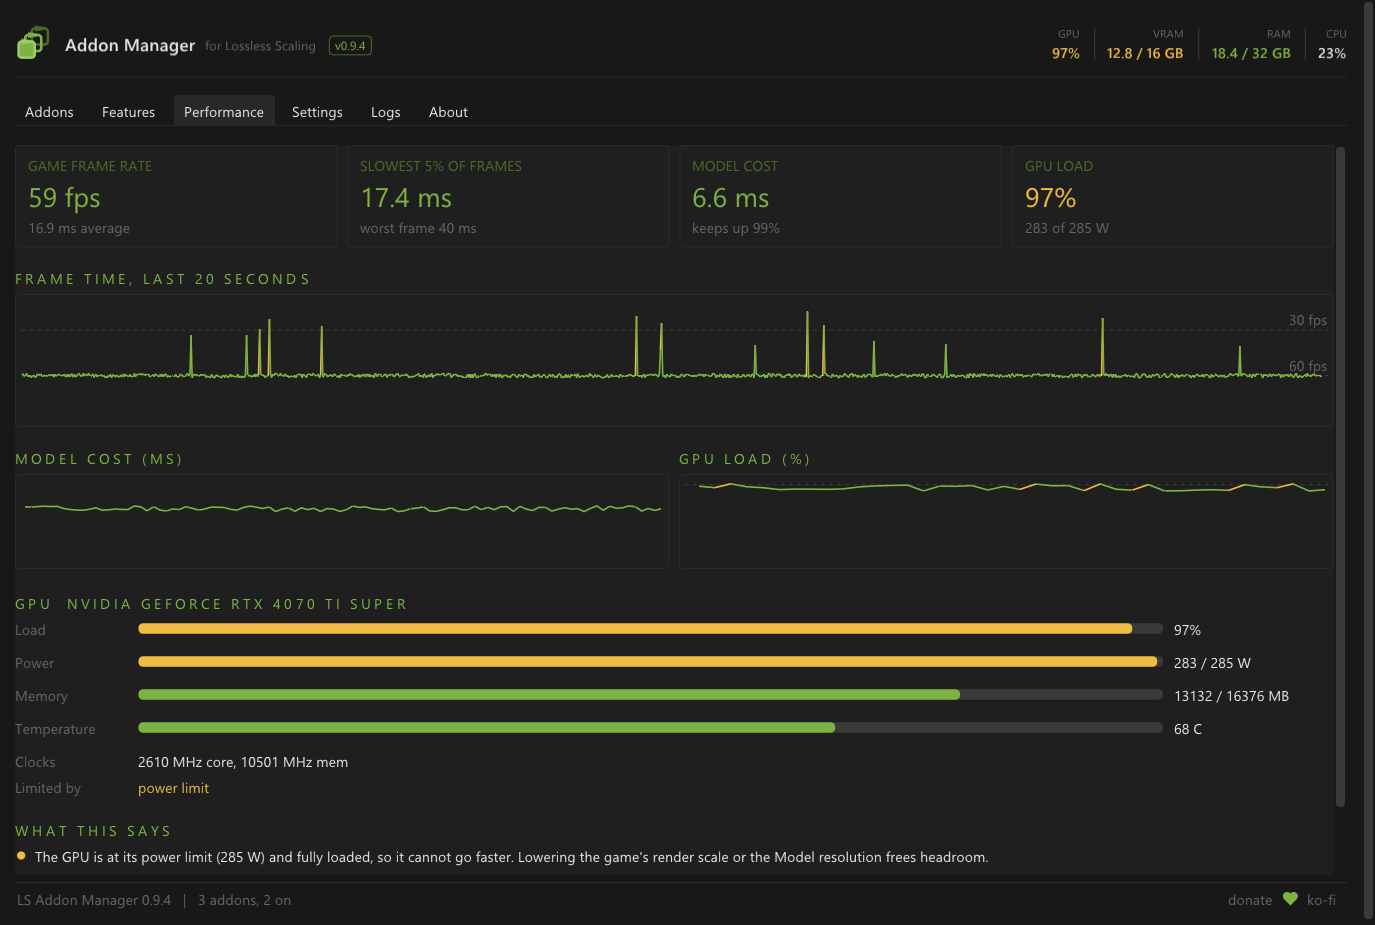
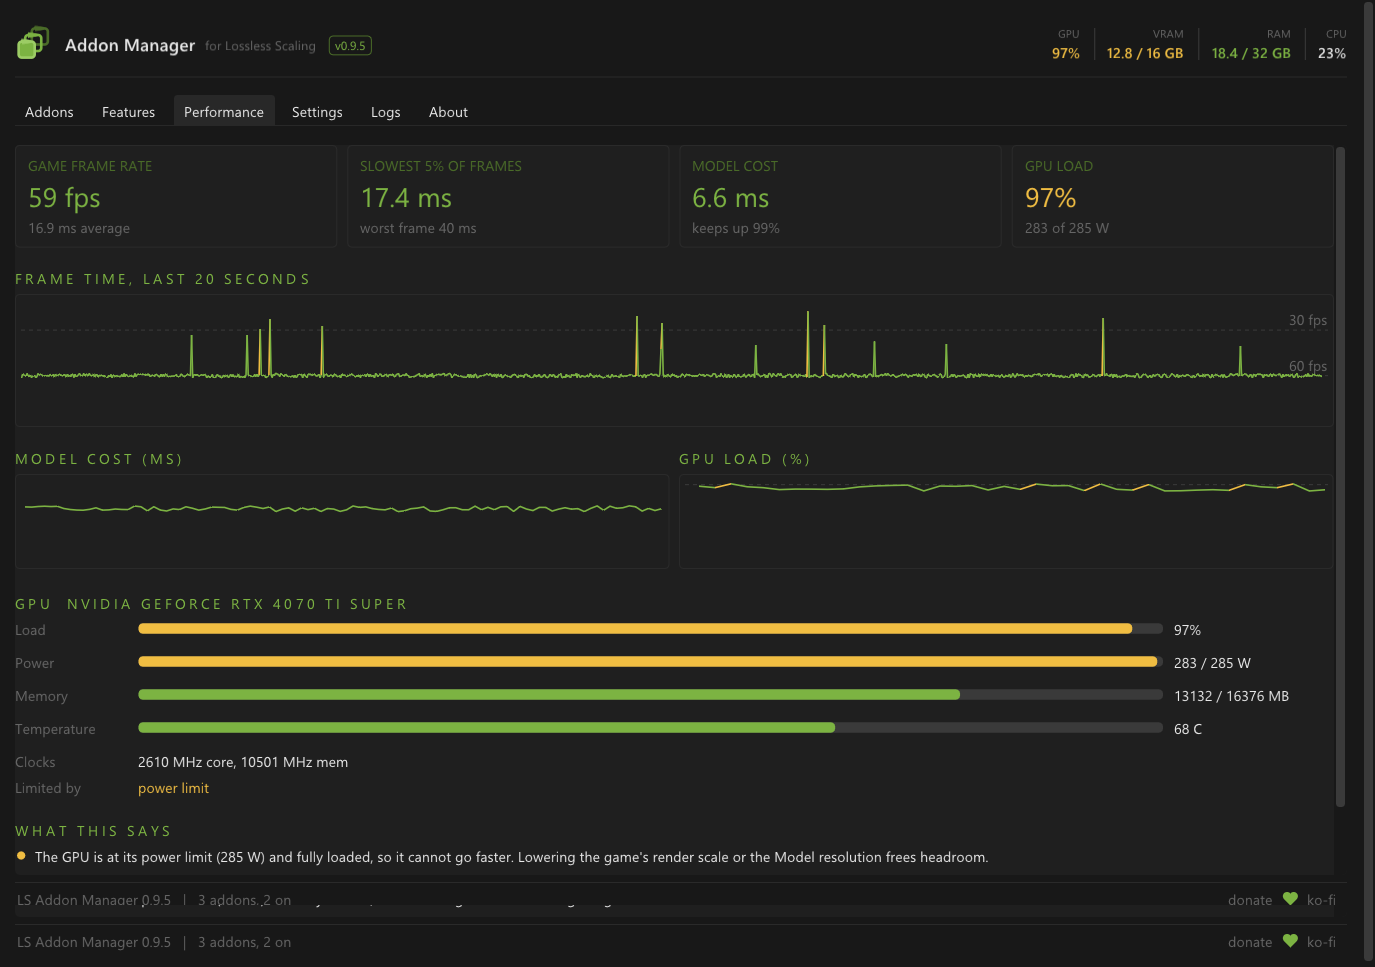
Version 0.9.5 (not released yet); README screenshots retaken at 0.9.5 (Runtimes list, FSR version, picture controls, new names); the preview's tidy scene leaves the model file's line out

diff --git a/manager/tools/ui_preview.cpp b/manager/tools/ui_preview.cpp
@@ -123,7 +123,8 @@ int main(int argc, char** argv) {
     // the runtimes, as the repository's addon.json files list them, read from the install in D:\Utilities\Lossless Scaling (as the real
     // list reads them: version, signature, SHA-256). EAM_PREVIEW_FSR=<file>: that file as the FSR runtime (only read, never loaded)
     const std::wstring lsDir = L"D:\\Utilities\\Lossless Scaling";
-    { AddonManifest m; if (ReadManifest(plugins / "addon.json", m)) a.manifest.runtimes = m.runtimes; }
+    // (the model file is the person's own: the tidy scene for the README leaves its line out rather than show this machine's copy)
+    { AddonManifest m; if (!clean && ReadManifest(plugins / "addon.json", m)) a.manifest.runtimes = m.runtimes; }
     { AddonManifest m; if (ReadManifest(plugins / "products" / "DLSS4DLAA" / "addon.json", m)) b.manifest.runtimes = m.runtimes; }
     { AddonManifest m; if (ReadManifest(plugins / "products" / "FSR3UPSC" / "addon.json", m)) c.manifest.runtimes = m.runtimes; }
     a.dllPath = lsDir + L"\\addons\\DLSS5NR01\\DLSS5NR01.dll";
@@ -146,7 +147,7 @@ int main(int argc, char** argv) {
     float model = 0.5f, sharpen = 0.0f, vib = 1.2f, blend = 0.72f, gamma = 1.0f; int passes = 1, grain = 2; bool sw = true, sw2 = false; int sel = 0;
     const float dModel = 0.35f, dSharpen = 0.0f, dVib = 0.0f, dBlend = 1.0f, dGamma = 1.0f; const int dPasses = 1, dGrain = 1;
     if (!clean) widgets::ToastShow("Installed 'Cool Addon' (switched off). Turn it on with its switch.", widgets::ToastType::Success, 1000.0f);
-    const std::string status = window::StatusCounts(3, 2);
+    std::string status = window::StatusCounts(3, 2);
 
     // live data for the cards and the Performance tab: 20 s of a game near 60 fps with a few hitches, a model at ~6.6 ms, a GPU at its cap
     {
@@ -169,7 +170,7 @@ int main(int argc, char** argv) {
             M.PublishAt("system", "gpu_power_w", 281.0f + (rnd() - 0.5f) * 4.0f, "W", t);
         }
         M.SetStatus("DLSS5NR01", "Running, model 5.2 ms, keeps up 99%", 1);
-        M.SetStatus("FSR3UPSC", "FSR 3 1920x1080 -> 3840x2160, 1.6 ms", 1);
+        M.SetStatus("FSR3UPSC", "FSR 3.1.4 1920x1080 -> 3840x2160, 1.6 ms", 1);
         SystemStats::Snapshot sys; sys.ok = true; sys.cpuPercent = 23; sys.ramUsedMB = 18841; sys.ramTotalMB = 32703;
         SystemStats::Instance().InjectForPreview(sys);
         GpuStats::Snapshot g; g.name = "NVIDIA GeForce RTX 4070 Ti SUPER"; g.driver = "616.92"; g.deviceCount = 1; g.utilGpu = 97; g.utilMem = 44;
@@ -192,6 +193,8 @@ int main(int argc, char** argv) {
             rest = semi == std::string::npos ? std::string() : rest.substr(semi + 1);
         }
         free(v);
+        // "DLSS5NR01/_enabled=0": Neural Rendering switched off in the manager, its card and the status bar with it
+        if (host.cfg["DLSS5NR01/_enabled"] == "0") { a.enabled = false; a.hModule = nullptr; status = window::StatusCounts(3, 1); }
     }
     for (int i = 3; i < argc; ++i) {
         HMODULE h = LoadLibraryA(argv[i]);
@@ -234,7 +237,7 @@ int main(int argc, char** argv) {
             ImGui::Dummy(ImVec2(0, S(4)));
             for (int i = 0; i < 3; ++i) { widgets::AddonCard(*list[i], i, i == selected); ImGui::Dummy(ImVec2(0, S(1))); }
             {   // as tab_addons.cpp: the runtimes at the bottom of the list
-                std::vector<RuntimeFile> rows = RuntimeFiles(runtimeAddons, lsDir);
+                std::vector<RuntimeFile> rows = RuntimeFiles({ a, b, c }, lsDir);   // the addons as the scene has them now (on or off)
                 for (RuntimeFile& r : rows) r.loaded = r.addonOn && r.exists && r.addonId == "DLSS5NR01";   // the preview loads none: one running, one waiting, one off
                 // EAM_PREVIEW_RUNTIME_MENU=<line>: that line's + menu shown open
                 char* mv = nullptr; size_t mn = 0; _dupenv_s(&mv, &mn, "EAM_PREVIEW_RUNTIME_MENU");

diff --git a/addons/DLSS5NR01/src/addon/addon.cpp b/addons/DLSS5NR01/src/addon/addon.cpp
@@ -175,7 +175,7 @@ EAM_EXPORT void AddonShutdown() {
 EAM_EXPORT void AddonRenderSettings() { DrawPanel(); }
 EAM_EXPORT uint32_t GetAddonCapabilities() { return EAM_CAP_HAS_SETTINGS | EAM_CAP_D3D11_DEVICE_ACCESS | EAM_CAP_DISPATCH_HOOK; }
 EAM_EXPORT const char* GetAddonName() { return kProductName; }
-EAM_EXPORT const char* GetAddonVersion() { return "0.9.4"; }
+EAM_EXPORT const char* GetAddonVersion() { return "0.9.5"; }
 EAM_EXPORT const char* GetAddonAuthor() { return "Echo-Storm"; }
 EAM_EXPORT const char* GetAddonDescription() {
     return kFsrScaler

diff --git a/manager/sdk/include/eam/version.h b/manager/sdk/include/eam/version.h
@@ -10,7 +10,7 @@
 #define EAM_PRODUCT_LOGFILE_W L"LSAddonManager.log"
 
 // The release the user installs. Free-form text: "0.1.0", "0.2.0-beta.1".
-#define EAM_VERSION_STRING "0.9.4"
+#define EAM_VERSION_STRING "0.9.5"
 
 // The addon API: what an addon can rely on. This is what IHost::GetHostVersion() reports and what an addon's
 // "min_host_version" is compared with (0x00MMmmpp). Bump the minor number when calls are added to IHost (always

diff --git a/CHANGELOG.md b/CHANGELOG.md
@@ -1,6 +1,6 @@
 # Changelog
 
-## Unreleased
+## 0.9.5 (not released yet)
 
 - **Runtimes, at the bottom of the addon list.** Each file the addons run on is listed: the DLSS 5 model, NVIDIA's DLSS and AMD's FSR.
   - **What each line shows:** a tick when the file is loaded right now, a circle when its addon is on and waits for a game to be
